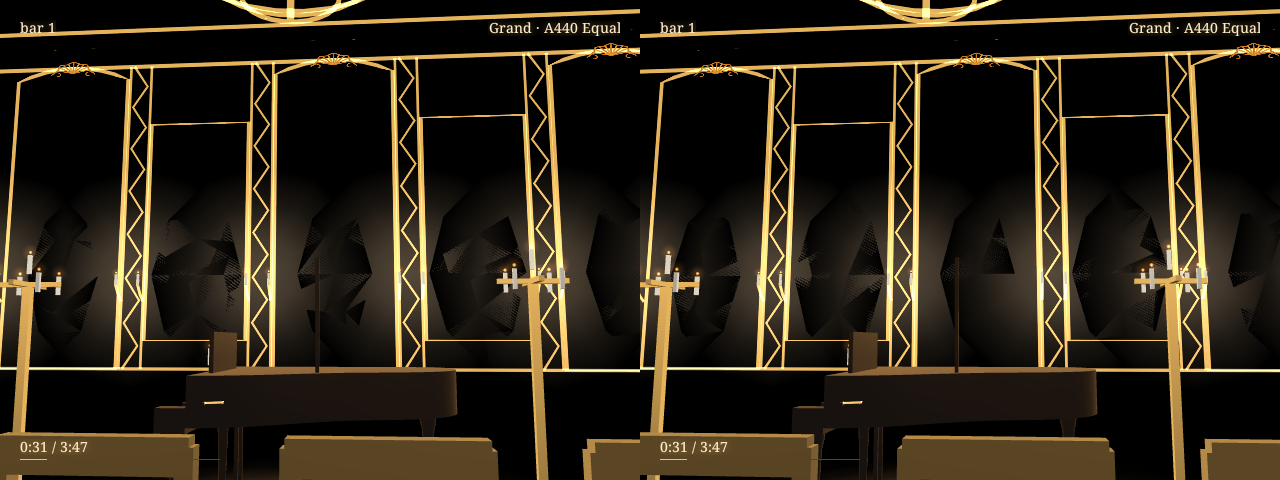
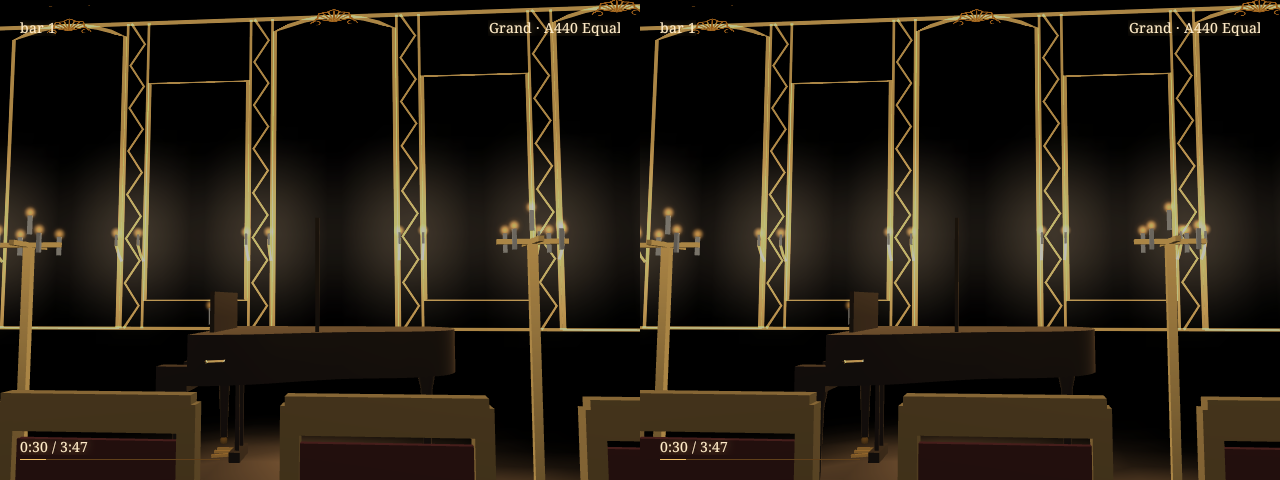
M5: Hall visuals — wall glow grid (no z-fighting shards), Hall wide pitch 5.2° (chandelier overhead), min flame size, darker candle wax; gate re-run

diff --git a/core/src/main/java/com/tropicalstream/hammerklavier/venue/RoomShell.kt b/core/src/main/java/com/tropicalstream/hammerklavier/venue/RoomShell.kt
@@ -230,9 +230,11 @@ object RoomShell {
             val plane = if (x > 0f) Konzertzimmer.PLANE_E else Konzertzimmer.PLANE_W
             centres.add(floatArrayOf(plane.toFloat(), FlameLayout.POS[3 * i + 2], FlameLayout.POS[3 * i + 1]))
         }
-        for (c in centres) {
-            val plane = c[0].toInt()
-            Geo.glowDisc(b, Geo.wallPoint(plane, c[1], c[2], 0.01f), Geo.wallTangent(plane), floatArrayOf(0f, 1f, 0f), Geo.wallNormal(plane), GLOW_R, glow)
+        // M5 integration: one grid per wall carrying the max of the overlapping glows. Separate discs at one depth
+        // z-fought where neighbours overlap (the dark shards across the N mirrors in the Hall).
+        for (plane in intArrayOf(Konzertzimmer.PLANE_N, Konzertzimmer.PLANE_E, Konzertzimmer.PLANE_S, Konzertzimmer.PLANE_W)) {
+            val mine = centres.filter { it[0].toInt() == plane }
+            if (mine.isNotEmpty()) glowGrid(b, plane, mine, glow)
         }
         val m = b.build("venue.frames", MaterialId.WINDOW_FRAME, SkinKind.STATIC, Masks.SALON or Masks.STAGE, Masks.ALL_VIEWS,
             clipped = false, program = ProgramId.LIT, drawSlot = 1,
@@ -241,6 +243,45 @@ object RoomShell {
     }
 
     const val GLOW_R = 1.2f
+    private const val GLOW_STEP = 0.15f
+
+    /** A wall-plane grid 1 cm into the room: vertex colour = [rgb] × max over [cs] (plane, along, y) of the disc falloff. */
+    private fun glowGrid(b: MeshBuilder, plane: Int, cs: List<FloatArray>, rgb: IntArray) {
+        val a0 = cs.minOf { it[1] } - GLOW_R; val a1 = cs.maxOf { it[1] } + GLOW_R
+        val y0 = maxOf(0f, cs.minOf { it[2] } - GLOW_R); val y1 = cs.maxOf { it[2] } + GLOW_R
+        val na = kotlin.math.ceil((a1 - a0) / GLOW_STEP).toInt(); val ny = kotlin.math.ceil((y1 - y0) / GLOW_STEP).toInt()
+        val w = FloatArray((na + 1) * (ny + 1))
+        for (j in 0..ny) for (i in 0..na) {
+            val a = a0 + (a1 - a0) * i / na; val y = y0 + (y1 - y0) * j / ny
+            var m = 0f
+            for (c in cs) {
+                val da = a - c[1]; val dy = y - c[2]
+                val fall = 1f - (sqrt(da * da + dy * dy) / GLOW_R).coerceIn(0f, 1f)
+                m = maxOf(m, fall * fall * (3f - 2f * fall))
+            }
+            w[j * (na + 1) + i] = m
+        }
+        val n = Geo.wallNormal(plane)
+        val idx = IntArray((na + 1) * (ny + 1)) { -1 }
+        fun v(i: Int, j: Int): Int {
+            val k = j * (na + 1) + i
+            if (idx[k] < 0) {
+                val p = Geo.wallPoint(plane, a0 + (a1 - a0) * i / na, y0 + (y1 - y0) * j / ny, 0.01f)
+                val q = w[k]
+                b.color(intArrayOf((rgb[0] * q).toInt(), (rgb[1] * q).toInt(), (rgb[2] * q).toInt()))
+                idx[k] = b.vertex(p[0], p[1], p[2], n[0], n[1], n[2], 0f, 0f)
+            }
+            return idx[k]
+        }
+        // (T, Y) is CCW seen from the room; on S and W "along" runs against T
+        val flip = plane == Konzertzimmer.PLANE_S || plane == Konzertzimmer.PLANE_W
+        for (j in 0 until ny) for (i in 0 until na) {
+            val k = j * (na + 1) + i
+            if (w[k] <= 0f && w[k + 1] <= 0f && w[k + na + 1] <= 0f && w[k + na + 2] <= 0f) continue
+            val v00 = v(i, j); val v10 = v(i + 1, j); val v01 = v(i, j + 1); val v11 = v(i + 1, j + 1)
+            if (flip) { b.tri(v00, v11, v10); b.tri(v00, v01, v11) } else { b.tri(v00, v10, v11); b.tri(v00, v11, v01) }
+        }
+    }
 
     /** Intervals along a wall occupied by its openings (merged), sorted. */
     fun occupied(plane: Int): List<FloatArray> {

diff --git a/app/src/main/java/com/tropicalstream/hammerklavier/render/SpriteBatch.kt b/app/src/main/java/com/tropicalstream/hammerklavier/render/SpriteBatch.kt
@@ -18,14 +18,21 @@ class SpriteBatch(val maxSprites: Int) {
     private var verts = 0
 
     /** [n] sprites in [sprites]; [right]/[up] unit camera axes; [model] null = room frame as is. */
-    fun build(n: Int, right: FloatArray, up: FloatArray) {
+    fun build(n: Int, right: FloatArray, up: FloatArray, eye: FloatArray? = null) {
         count = n.coerceIn(0, maxSprites)
         val d = mesh.data
         var o = 0
         for (i in 0 until count) {
             val b = i * 8
-            val x = sprites[b]; val y = sprites[b + 1]; val z = sprites[b + 2]; val s = sprites[b + 3] * 0.5f
-            val r = sprites[b + 4]; val g = sprites[b + 5]; val bl = sprites[b + 6]; val a = sprites[b + 7]
+            val x = sprites[b]; val y = sprites[b + 1]; val z = sprites[b + 2]; var s = sprites[b + 3] * 0.5f
+            val r = sprites[b + 4]; val g = sprites[b + 5]; val bl = sprites[b + 6]; var a = sprites[b + 7]
+            if (eye != null) {
+                // M5: a 3 cm flame 5–8 m away is 2–4 px on the waveguide; hold every sprite to a minimum angular
+                // half-size and trade the growth for weight (a × (s/s′)^¼), so far candles read as flames.
+                val dx = x - eye[0]; val dy = y - eye[1]; val dz = z - eye[2]
+                val minS = kotlin.math.sqrt(dx * dx + dy * dy + dz * dz) * MIN_HALF_ANGLE
+                if (s < minS) { a *= kotlin.math.sqrt(kotlin.math.sqrt(s / minS)); s = minS }
+            }
             o = corner(d, o, x, y, z, s, right, up, -1f, -1f, r, g, bl, a)
             o = corner(d, o, x, y, z, s, right, up, 1f, -1f, r, g, bl, a)
             o = corner(d, o, x, y, z, s, right, up, 1f, 1f, r, g, bl, a)
@@ -64,5 +71,10 @@ class SpriteBatch(val maxSprites: Int) {
         if (p.aCorner >= 0) GLES20.glDisableVertexAttribArray(p.aCorner)
         if (p.aCol >= 0) GLES20.glDisableVertexAttribArray(p.aCol)
         return 1
+    }
+
+    companion object {
+        /** Minimum sprite half-extent in radians (≈ 7 px on the 40° Hall view). */
+        const val MIN_HALF_ANGLE = 0.010f
     }
 }

diff --git a/core/src/test/java/com/tropicalstream/hammerklavier/instrument/InstrumentsTest.kt b/core/src/test/java/com/tropicalstream/hammerklavier/instrument/InstrumentsTest.kt
@@ -143,7 +143,7 @@ class InstrumentsTest {
         check(InstrumentId.UPRIGHT, ViewId.ACTION, 1, 64f, 60f, f(1.05f, 1.40f, 0.75f), f(0f, 1.06f, -0.28f), 36f, 0.5f, 1.5f, false, nan, 1f)
         check(InstrumentId.HARPSICHORD, ViewId.ACTION, 1, 64f, 60f, f(0f, 1.85f, 0.45f), f(0f, 0.80f, -0.95f), 44f, 0.5f, 1.8f, false, nan, 1f)
         for (id in listOf(InstrumentId.GRAND, InstrumentId.HARPSICHORD)) {
-            check(id, ViewId.HALL, 0, 60f, 60f, f(0.4f, 1.20f, 3.0f), f(0f, 1.95f, -1.9f), 40f, 1f, 4.9f, true, nan, 0f)
+            check(id, ViewId.HALL, 0, 60f, 60f, f(0.4f, 1.20f, 3.0f), f(0f, 1.65f, -1.9f), 40f, 1f, 4.9f, true, nan, 0f)
             check(id, ViewId.HALL, 1, 60f, 60f, f(0.4f, 1.20f, 3.0f), f(0f, 1.05f, -1.9f), 18.27f, 1f, 4.9f, true, nan, 0f)
         }
         check(InstrumentId.UPRIGHT, ViewId.HALL, 0, 60f, 60f, f(0.4f, 1.20f, 3.0f), f(-1.6f, 1.60f, -2.65f), 40f, 1f, 6.0f, true, nan, 0f)

diff --git a/core/src/main/java/com/tropicalstream/hammerklavier/instrument/Anchors.kt b/core/src/main/java/com/tropicalstream/hammerklavier/instrument/Anchors.kt
@@ -61,7 +61,7 @@ class Anchors(val id: InstrumentId, private val keyboard: Keyboard) : Instrument
                     if (framing == 0) set(out, 0.4f, 1.20f, 3.0f, -1.6f, 1.60f, -2.65f, 40f, 1.0f, 6.0f)
                     else set(out, 0.4f, 1.20f, 3.0f, -1.8f, 1.00f, -2.85f, LIFE_SIZE_FOV, 1.0f, 6.0f)
                 } else {
-                    if (framing == 0) set(out, 0.4f, 1.20f, 3.0f, 0f, 1.95f, -1.9f, 40f, 1.0f, 4.9f)
+                    if (framing == 0) set(out, 0.4f, 1.20f, 3.0f, 0f, 1.65f, -1.9f, 40f, 1.0f, 4.9f)   // M5: was 1.95 (chandelier cut at the top edge; it stays overhead, +45° look-around)
                     else set(out, 0.4f, 1.20f, 3.0f, 0f, 1.05f, -1.9f, LIFE_SIZE_FOV, 1.0f, 4.9f)
                 }
             }

diff --git a/app/src/main/java/com/tropicalstream/hammerklavier/render/StereoRenderer.kt b/app/src/main/java/com/tropicalstream/hammerklavier/render/StereoRenderer.kt
@@ -329,7 +329,7 @@ class StereoRenderer(private val loader: ExecutorService?,
         frame.lights(lightRig)
         val nSprites = if (level == RoomLevel.PASSTHROUGH.ordinal) 0
             else scn.flames.update(tSec, rig.centre, d.quality, RoomLevel.entries[level], sprites.sprites)
-        sprites.build(nSprites, rig.right, rig.up)
+        sprites.build(nSprites, rig.right, rig.up, rig.centre)
         frame.clipX = cam.clipX
         frame.stageFade = level == RoomLevel.STAGE.ordinal
         frame.stringWidthPx = drawer.stringWidth(if (director.view == ViewId.HALL) 2 else if (director.view == ViewId.ACTION) director.framing else 2)

diff --git a/core/src/main/java/com/tropicalstream/hammerklavier/venue/Fixtures.kt b/core/src/main/java/com/tropicalstream/hammerklavier/venue/Fixtures.kt
@@ -17,7 +17,7 @@ import com.tropicalstream.hammerklavier.mesh.MeshBuilder
 object Fixtures {
     val CHAIR_FRAME_RGB = intArrayOf(170, 124, 58)
     val DAMASK_RGB = intArrayOf(80, 30, 26)
-    val CANDLE_RGB = intArrayOf(214, 204, 184)
+    val CANDLE_RGB = intArrayOf(150, 142, 128)          // M5: was (214,204,184), brighter than the flames it carries
 
     fun build(): List<BakedMesh> {
         val out = ArrayList<BakedMesh>()

diff --git a/docs/progress/INTEGRATION.md b/docs/progress/INTEGRATION.md
@@ -378,3 +378,21 @@ flat beige slabs across the bottom and are the main APL overshoot; the grand is 
 ### M5 third pass (2026-09-23) — still PARTIAL, not tagged
 - Device re-checked: USB powered, status 5 (charging/full), level 100 — the unplugged 30-min T-THERM still cannot run
   without the user pulling the cable. No code change in this pass; 814f292 gate numbers stand.
+
+### M5 fourth pass (2026-09-23) — Hall visuals fixed; still PARTIAL, not tagged (unplugged T-THERM)
+- Mirror shards: the wall glow was one disc per girandole at the same 1 cm offset; neighbouring discs overlap and
+  z-fought (dark outer ring of one over the bright centre of the next). `RoomShell.glowGrid` now bakes one grid per wall
+  whose vertex colour is the max of the overlapping glows. Shards gone.
+- Chandelier cropped: Hall wide (grand, harpsichord) target y 1.95 → 1.65 (pitch 8.6° → 5.2°); the chandelier is now
+  cleanly overhead (reached with the +45° look-around), the grand sits nearer the centre, the front row reads as chair
+  backs with damask (still cut by the frame edge, as a foreground row should be). PLAN §5.6 table and InstrumentsTest updated.
+- Tiny flames: `SpriteBatch.build` holds every sprite to a 0.010 rad half-extent, alpha × (s/s′)^¼; candle wax
+  (214,204,184) → (150,142,128) so the sticks no longer outshine their flames.
+- Gate: `tools/ci.sh` PASS; release md5 69b48c2d52644e2d25eaf319718a9501 installed and verified; `smoke.sh M5` PASS:
+  T-APL Player 8.35%, cutaway 8.55%, overhead 8.56% (≤ 9%), Hall 11.89% (≤ 12%); draws max 24; 30.0 fps; 0 hitches,
+  0 GL errors; 6 setRoom lines; first setRoom 45.5 ms (main thread, then a 500 ms ramp on the audio side; later ones < 1 ms).
+- Shots: `docs/shots/m5_hall.png`, `m5_player.png` refreshed.
+- Still open: unplugged 30-min T-THERM (user must pull the cable: `tools/device/soak.sh start therm30`, unplug,
+  `soak.sh pull`; battery < Q3); APL cap remains a stopgap for WP6/7/8 materials; T12.8; T-CPU with combs, comb
+  calibration; L-2/L-7 listening; real-head look-around; setRoom in AppController until WP12 SessionController (M6);
+  soak CSV movement column.

diff --git a/docs/PLAN.md b/docs/PLAN.md
@@ -1895,7 +1895,7 @@ Piano frame: origin on the floor under the centre of the key fronts; x toward th
 | Grand | Action overhead (lid off) | (0, 1.95, 0.55) | (0, 0.84, −0.90) | 44° | 0.5 | 1.8 m |
 | Upright | Action overhead (top lid open, upper panel off) | (1.05, 1.40, 0.75) | (0, 1.06, −0.28) | 36° | 0.5 | 1.5 m |
 | Harpsichord | Action overhead (lid and jack rail off) | (0, 1.85, 0.45) | (0, 0.80, −0.95) | 44° | 0.5 | 1.8 m |
-| Grand, harpsichord (room frame) | Hall wide | (0.4, 1.20, 3.0) | (0, 1.95, −1.9) | 40° | 1.0 | 4.9 m |
+| Grand, harpsichord (room frame) | Hall wide | (0.4, 1.20, 3.0) | (0, 1.65, −1.9) (M5; was 1.95) | 40° | 1.0 | 4.9 m |
 | Grand, harpsichord (room frame) | Hall life-size | (0.4, 1.20, 3.0) | (0, 1.05, −1.9) | 18.27° (CONTROL `--ef fov`) | 1.0 | 4.9 m |
 | Upright (room frame) | Hall wide / life-size | (0.4, 1.20, 3.0) | (−1.6, 1.60, −2.65) / (−1.8, 1.00, −2.85) | 40° / 18.27° | 1.0 | 6.0 m |
 

diff --git a/docs/contracts-changelog.md b/docs/contracts-changelog.md
@@ -267,3 +267,8 @@ Recorded by the integrator while merging WP1, WP2, WP3, WP4 and WP11 for M1 (doc
   in Stage views (gain Player 0.37, Action cutaway 0.30, overhead 0.26); in the Hall it is folded into the fade quad (gain 0.74).
 - `SceneAssembler.overheadDraws` counts the extra quad outside the Hall (Hall stays at the 28-draw limit).
 - Interim: WP6/WP7/WP8 should bring the materials down so these gains can rise toward 1.
+
+## 2026-09-23 M5 integrator: Hall framing and venue visuals (no interface change)
+- PLAN §5.6 Hall wide (grand, harpsichord) target (0, 1.95, −1.9) → (0, 1.65, −1.9); chandelier stays overhead.
+- `RoomShell` wall glow: per-wall max-blended grid replaces overlapping discs (z-fighting); same colours and radius.
+- `SpriteBatch.build(n, right, up, eye?)`: minimum angular sprite size 0.010 rad; `Fixtures.CANDLE_RGB` darkened.
